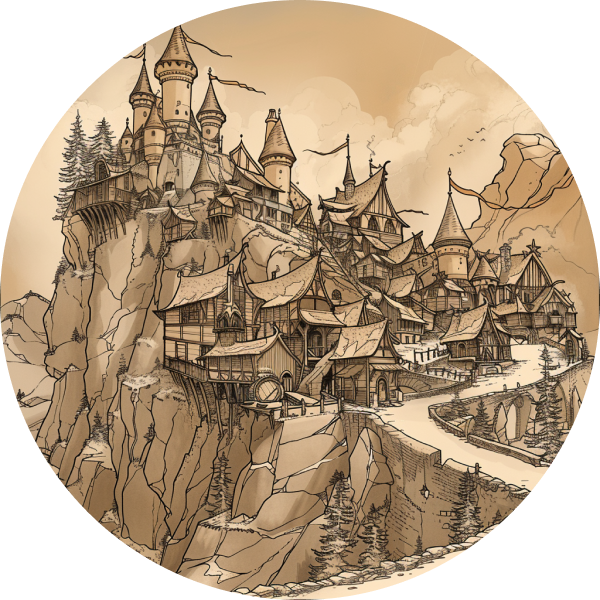
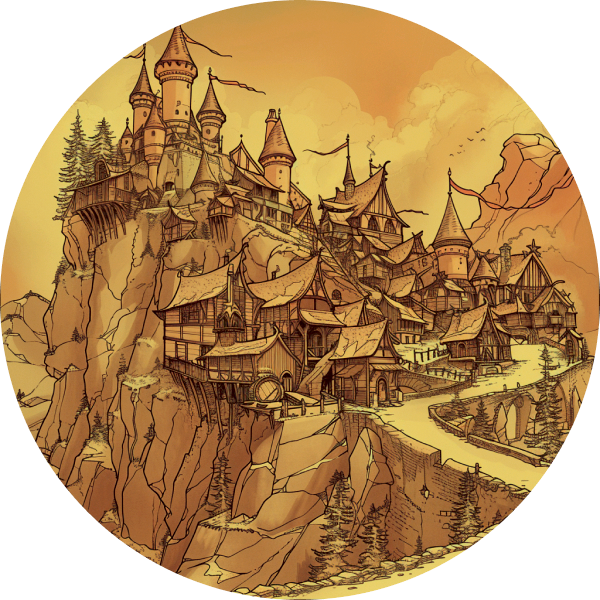
Updated images to match color scale. not sure on white bg or not

diff --git a/app/(auth)/lore/page.js b/app/(auth)/lore/page.js
@@ -54,25 +54,25 @@ export default function LorePage() {
   const races = [
     {
       name: "Human",
-      image: "./images/race/race-human.png",
+      image: "./images/race/new-race-human.png",
       description:
         "Humans are versatile and adaptable, excelling in various roles due to their balanced abilities and potential",
     },
     {
       name: "Half-Elf",
-      image: "./images/race/race-half-elf.png",
+      image: "./images/race/new-race-half-elf.png",
       description:
         "A versatile mix of human and elf, half-elves combine the best traits of both, excelling in social diplomacy and cultural adaptability",
     },
     {
       name: "Elf",
-      image: "./images/race/race-elf.png",
+      image: "./images/race/new-race-elf.png",
       description:
         "Elves are graceful, long-lived beings with a deep connection to magic and the natural world, skilled in archery and wisdom",
     },
     {
       name: "Dwarf",
-      image: "./images/race/race-dwarf.png",
+      image: "./images/race/new-race-dwarf.png",
       description:
         "Dwarves are stout and resilient, renowned for their combat prowess and unparalleled skills in mining and metalwork",
     },
